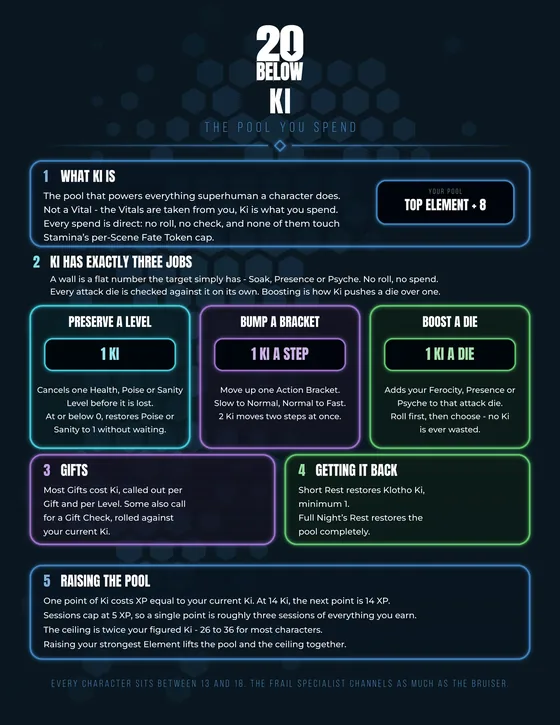
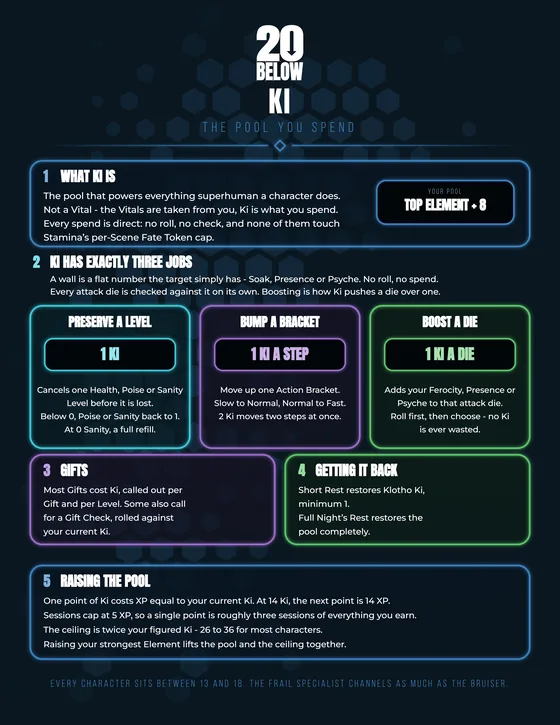
Portfolio: Prone and Ki fixed, and starting gear follows the rules
Status Effects had Prone as Disadvantage on your attacks and Advantage
for Melee against you. A Prone character can't attack, and every attack
against them gains Advantage; one action recovers.

Ki's Preserve a Level said 1 Ki at or below 0 restores Poise or Sanity
to 1. Below 0 it does; at 0 Sanity (Overwhelmed) it refills Sanity, and
Poise at 0 isn't a Ki spend at all.

The Creation-Wealth reference still taught the old procedure, a roll for
every item against creation-Wealth + 6 with a gap rule. It now follows
resources.md: Starting Packages, free items by how far below you they
sit, a Wealth Check at creation-Wealth + 10 for the rest, reaching above
your Wealth for everything, and the Black Market apart. Its flowchart
drew the old procedure, so it is off the page.

diff --git a/docs/creation-wealth-reference.html b/docs/creation-wealth-reference.html
@@ -140,8 +140,11 @@ nav_section: start
     <h2>Questions</h2>
     <ol>
       <li><a href="#starting-wealth">What is my wealth at character creation?</a></li>
-      <li><a href="#buying-gear">How do I buy an item?</a></li>
-      <li><a href="#outcomes">What happens after I roll?</a></li>
+      <li><a href="#packages">What do I get before I spend anything?</a></li>
+      <li><a href="#free-items">What can I simply have?</a></li>
+      <li><a href="#rolling">When do I roll?</a></li>
+      <li><a href="#above">What if I want something above my Wealth?</a></li>
+      <li><a href="#black-market">What about the Black Market?</a></li>
       <li><a href="#after-creation">Does this affect my Wealth once play begins?</a></li>
     </ol>
   </nav>
@@ -149,34 +152,53 @@ nav_section: start
   <section class="xp-section" id="starting-wealth">
     <h2>What is my wealth at character creation?</h2>
     <div class="roll-box">2, unless you bought the Wealth Resource</div>
-    <p>Every character starts creation shopping with a creation-Wealth of <strong>2</strong>. If you spent Resources Pool points on the <strong>Wealth</strong> Resource during creation, your purchased Level replaces that flat 2 outright - it's not the higher of the two, just whichever one actually applies.</p>
-    <div class="example"><strong>Example:</strong> a character who put no Resources Pool points into Wealth shops with a creation-Wealth of 2. A character who bought Wealth up to Level 4 shops with a creation-Wealth of 4 instead.</div>
+    <p>Every character starts creation shopping with a creation-Wealth of <strong>2</strong>. If you spent Resources Pool points on the <strong>Wealth</strong> Resource, the Level you bought replaces that 2 outright - it's not the higher of the two, just whichever one applies.</p>
+    <p>The <a href="../rules/flaws.md#destitute">Destitute</a> Flaw overrides both: a Destitute character's creation-Wealth is <strong>0</strong>, and they can't spend points on Wealth during creation at all.</p>
+    <p>Every item in the catalog carries a <strong>Wealth rating</strong>. Shopping happens in three steps, in order: take your packages, take your free items, then roll for the rest.</p>
   </section>
 
-  <section class="xp-section" id="buying-gear">
-    <h2>How do I buy an item?</h2>
-    <p>Every item on the gear catalog carries its own <strong>Wealth rating</strong>. Buying one is a three-step check, and <strong>every purchase requires a roll</strong> - there's no automatic free item, even one at or under your current creation-Wealth.</p>
-    <div class="chart-frame">
-      <img src="assets/diagrams/wealth-at-creation-flow.svg" alt="Pick an item, find the gap between its Wealth rating and current creation-Wealth. If the gap is more than creation-Wealth, the item can't be afforded at all - no roll. Otherwise, roll a Wealth Check: 2d10 against creation-Wealth plus 6, roll-under. Success means the item is free. Failure still gets the item, but creation-Wealth drops by the gap, floored at 1, doubled on a catastrophic failure." />
-    </div>
-    <p><strong>1. Find the gap</strong> - the item's Wealth rating minus your current creation-Wealth. This can be zero, or even negative, for an item at or under what you've got.</p>
-    <p><strong>2. Check you can afford it</strong> - if the gap is more than your current creation-Wealth, the item is out of reach entirely. No roll happens.</p>
-    <p><strong>3. Roll a Wealth Check</strong> - <span class="roll-box">2d10 vs. creation-Wealth + 6</span>, roll-under, standard critical results apply.</p>
-    <div class="example"><strong>Example:</strong> starting creation-Wealth 2, eyeing a Bomb disposal suit (Wealth 5). Gap = 5 &minus; 2 = 3, which is more than the current creation-Wealth of 2 - out of reach, no roll possible this pass. A Compact SMG (Wealth 3) has a gap of only 1, well within reach - roll away.</div>
+  <section class="xp-section" id="packages">
+    <h2>What do I get before I spend anything?</h2>
+    <div class="roll-box">A Starting Package from every Level up to your creation-Wealth</div>
+    <p>Take one <a href="../rules/weapons.md#starting-packages">Starting Package</a> from every Level up to and including your creation-Wealth - one from each Level, not several from the top. Free, no roll.</p>
   </section>
 
-  <section class="xp-section" id="outcomes">
-    <h2>What happens after I roll?</h2>
-    <p><strong>Success:</strong> the item is free - creation-Wealth doesn't move at all.</p>
-    <p><strong>Failure:</strong> you still get the item either way - but creation-Wealth drops by the gap, <strong>floored at a minimum loss of 1</strong>. Even an item with no real gap still costs at least 1 Level on a failed roll. A <strong>catastrophic failure</strong> doubles that loss.</p>
-    <div class="example"><strong>Example:</strong> a character who bought Wealth up to Level 4 shops for a Tactical vest (also Wealth 4) - the gap is 0, since it matches exactly. The roll still happens (target: creation-Wealth 4 + 6 = 10). On success, the vest is free. On a plain failure, the floored-at-1 minimum still applies even though the gap was 0 - creation-Wealth drops from 4 to 3. On a catastrophic failure, that loss doubles to 2, dropping creation-Wealth to 2.</div>
-    <p class="aside">Creation-Wealth carries across every purchase made during this shopping pass - it keeps dropping (or staying put on successes) until nothing left on the list is affordable via a viable roll, at which point gear shopping for this character is over.</p>
+  <section class="xp-section" id="free-items">
+    <h2>What can I simply have?</h2>
+    <p>Money stops being a decision long before it stops mattering. What you can simply have depends on how far the item sits below you:</p>
+    <p><strong>Two or more Levels below your creation-Wealth:</strong> free, as many as you can reasonably carry and justify. A Wealth 5 character doesn't count flashlights.</p>
+    <p><strong>At your creation-Wealth, or one Level below it:</strong> free, up to a number of items equal to your creation-Wealth.</p>
+    <p><strong>Above your creation-Wealth:</strong> never free - and not a roll either. See <a href="#above">below</a>.</p>
+    <div class="example"><strong>Example:</strong> a Wealth 3 character walks away with everything they want at Wealth 1, any three items at Wealth 2 or 3, and a decision to make about anything above that.</div>
+  </section>
+
+  <section class="xp-section" id="rolling">
+    <h2>When do I roll?</h2>
+    <div class="roll-box">2d10 vs. creation-Wealth + 10</div>
+    <p>Only for one more item from the band your free picks are already spent on - at your creation-Wealth or one Level below it. That's a <strong>Wealth Check</strong>: roll-under, standard critical results apply.</p>
+    <p><strong>Success:</strong> the item is free.</p>
+    <p><strong>Failure:</strong> you still get the item, and creation-Wealth drops by <strong>1</strong>.</p>
+    <p><strong>Critical failure:</strong> the same, except creation-Wealth drops by <strong>2</strong>.</p>
+    <div class="example"><strong>Example:</strong> the Wealth 3 character above has taken their three free items at Wealth 2 and 3, and wants a fourth. They roll 2d10 against 13. A success and it's free; a failure and it's theirs anyway, with creation-Wealth now 2; a critical failure leaves it at 1.</div>
+  </section>
+
+  <section class="xp-section" id="above">
+    <h2>What if I want something above my Wealth?</h2>
+    <div class="roll-box">No roll. It costs everything.</div>
+    <p>The item can be had, and having it drops creation-Wealth straight to <strong>0</strong>. A character who reaches that far walks away with their Starting Packages, their free items, and that one thing. The ask always goes through. What it costs is the ability to make the next one.</p>
+    <p class="aside"><strong>At creation-Wealth 0 the rolling stops, but the free items don't.</strong> Both free bands are measured against the Level you actually bought, not what's left of the pool - so a character who spent themselves down to nothing can still take anything two or more Levels below their Wealth, along with any of their free allowance they hadn't used yet.</p>
+  </section>
+
+  <section class="xp-section" id="black-market">
+    <h2>What about the Black Market?</h2>
+    <div class="roll-box">Never free</div>
+    <p>None of the steps above apply to <a href="../rules/weapons.md#the-black-market">The Black Market</a>. Every purchase there is a transaction whatever it costs, gated by <a href="../rules/resources.md#black-market-access">Black Market Access</a> as well as by Wealth. Nobody hands you a jammer because you're rich.</p>
   </section>
 
   <section class="xp-section" id="after-creation">
     <h2>Does this affect my Wealth once play begins?</h2>
     <div class="roll-box">No - it's temporary bookkeeping only</div>
-    <p>Whatever your creation-Wealth ends up at after shopping has <strong>no effect</strong> on your actual Wealth Resource once play starts - that stays at whatever Level you actually purchased with Resources Pool points (or 0, if you didn't buy any). Once character creation ends, this whole procedure stops applying. Every Wealth purchase from then on uses the general <a href="../rules/resources.md#pushing-a-resource">Pushing a Resource</a> rule instead, completely unaffected by anything that happened during creation shopping.</p>
+    <p>Creation-Wealth carries across every purchase in this shopping pass, and then it's gone. It has <strong>no effect</strong> on your actual Wealth Resource, which stays at whatever Level you bought. Once creation ends this whole procedure stops applying: every purchase from then on uses the general <a href="../rules/resources.md#pushing-a-resource">Pushing a Resource</a> rule instead.</p>
   </section>
 
 </main>
